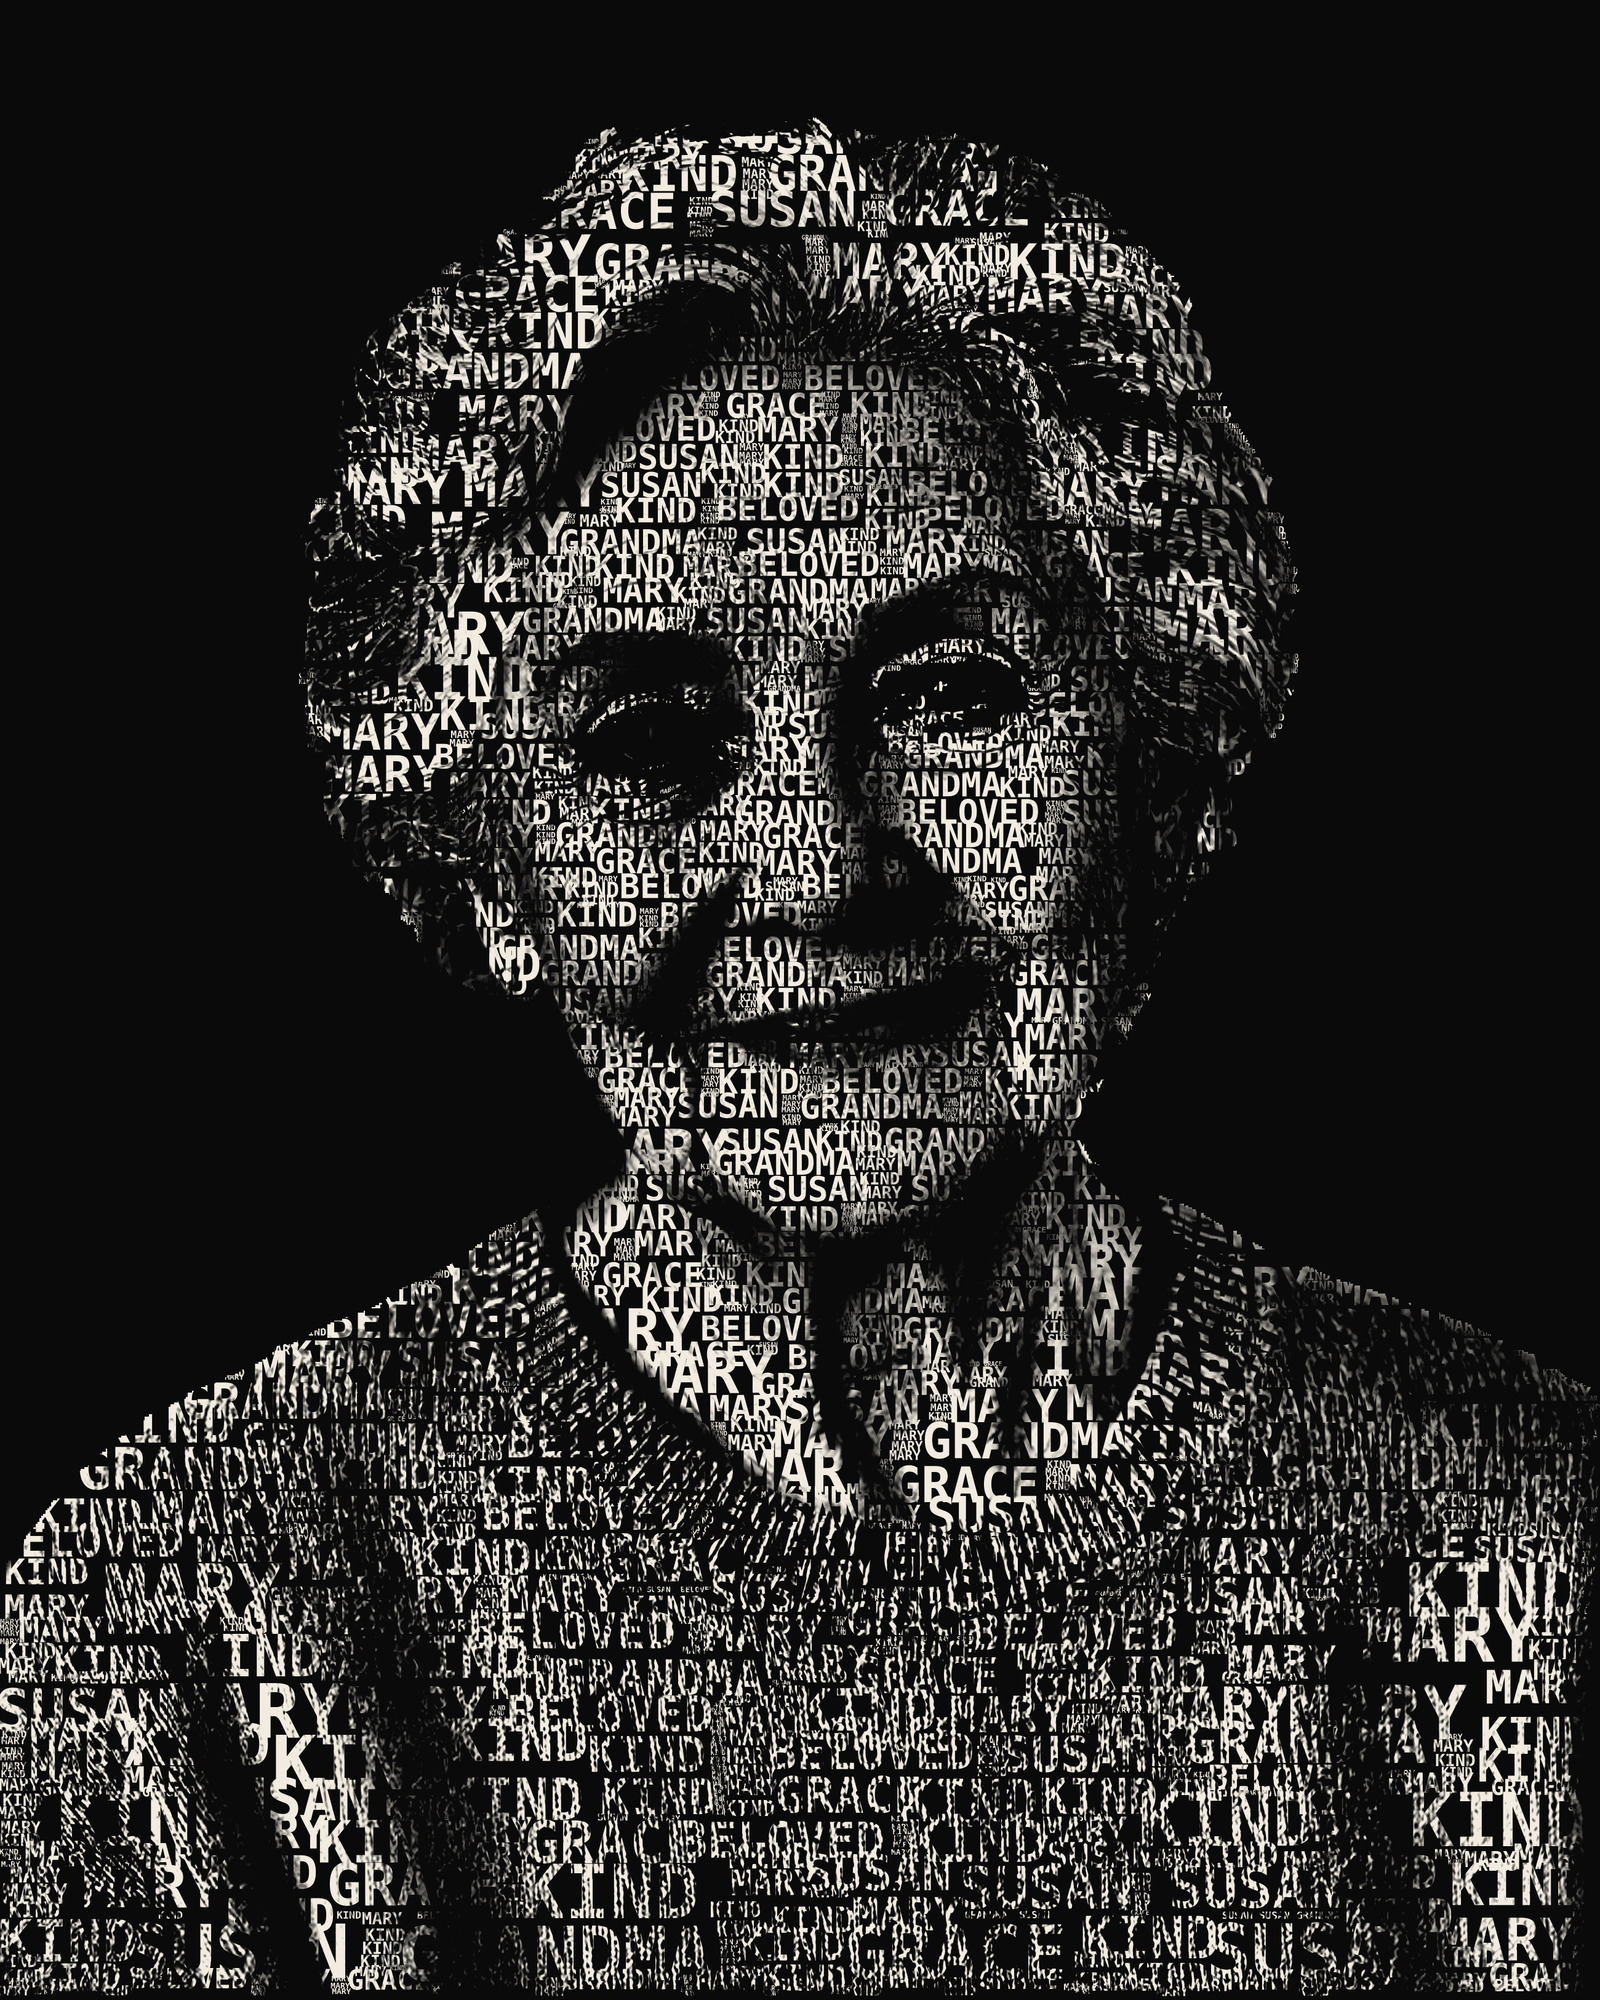
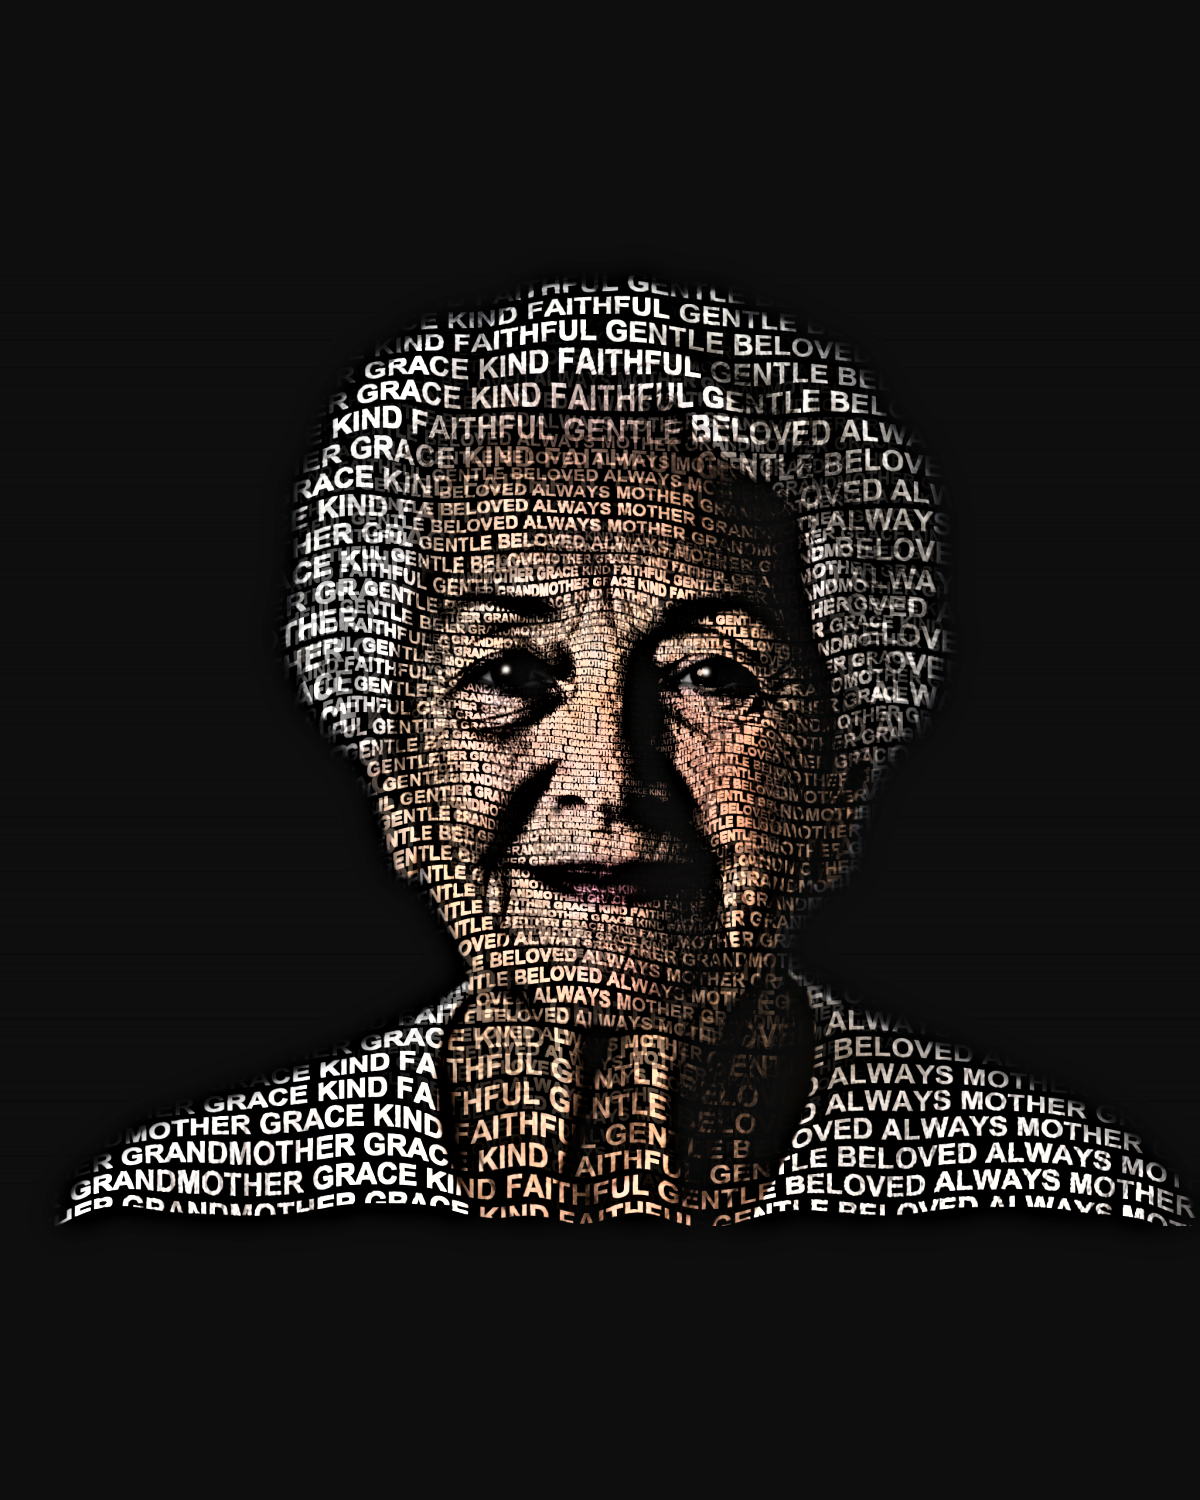
Loved in Words: refresh before/after + close-up to match the Sculpt hero
The before/after slider and the click-to-zoom close-up still used the old
grayscale Words render (portrait.png) paired with a different woman's photo
(before.jpg). Make the whole homepage feature Grace consistently:
- portrait.png -> the Sculpt/Lifelike Grace render (same one now in the hero)
- before/after "before" -> grace-before.jpg (Grace's own photo; face aligns
  with the render so the drag morphs the same person)
- cache-bust both portrait.png refs (?v=2)

diff --git a/typography_engine/marketing/lovedinwords/index.html b/typography_engine/marketing/lovedinwords/index.html
@@ -144,8 +144,8 @@ footer .by{display:block; margin-top:8px; font-size:12px; color:var(--muted); op
     <h2>Made from a photo and the words you choose</h2>
     <p class="lede">Drag to see the change — their photograph becomes a portrait of the words that describe them.</p>
     <div class="ba" id="ba" aria-label="Drag to compare the photograph and the portrait made from words">
-      <img class="ba-after" src="portrait.png" alt="A portrait made from the words that describe her" />
-      <div class="ba-before" id="baBefore"><img src="before.jpg" alt="The original photograph" /></div>
+      <img class="ba-after" src="portrait.png?v=2" alt="A portrait made from the words that describe her" />
+      <div class="ba-before" id="baBefore"><img src="grace-before.jpg" alt="The original photograph" /></div>
       <div class="ba-line" id="baLine"></div>
       <div class="ba-grip" id="baGrip">&#8596;</div>
       <span class="ba-tag l">their photo</span>
@@ -198,7 +198,7 @@ footer .by{display:block; margin-top:8px; font-size:12px; color:var(--muted); op
 </footer>
 <div class="zoomview" id="zoomView">
   <button class="zoomclose" id="zoomClose" aria-label="Close">&times;</button>
-  <img src="portrait.png" alt="The portrait up close — made from the words that describe her" />
+  <img src="portrait.png?v=2" alt="The portrait up close — made from the words that describe her" />
 </div>
 <script>
 (function(){
